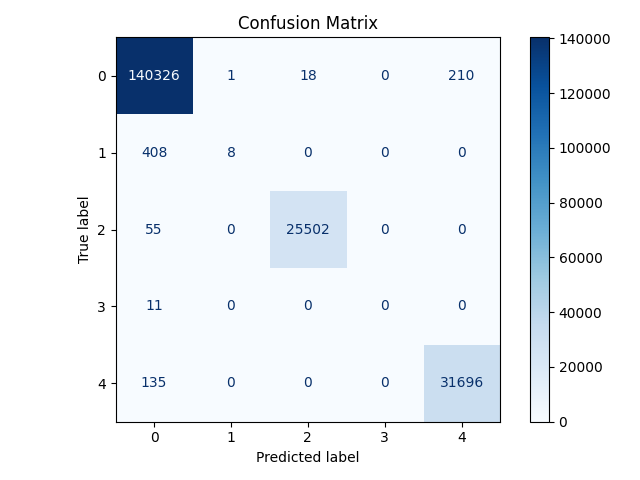
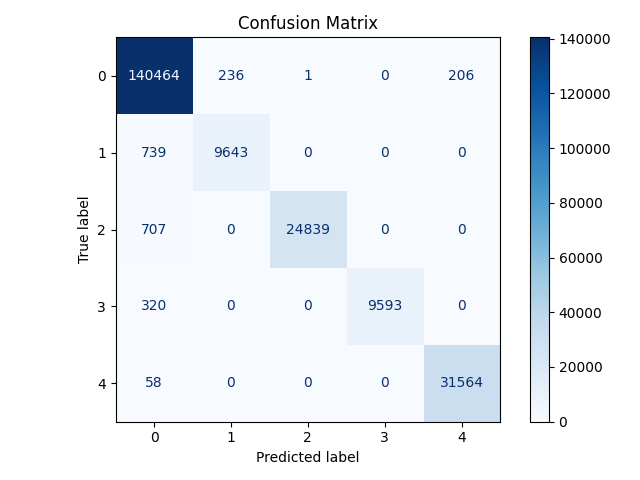
Added SMOTE

diff --git a/model.py b/model.py
@@ -66,7 +66,7 @@ def read_csv_to_ndarray(file_path: str) -> Tuple[np.ndarray, List[str], List[str
     return features, labels, feature_names
 
 
-def select_top_features(features: np.ndarray, labels: np.ndarray, feature_names: List[str], n_features: int = 5) -> Tuple[np.ndarray, List[str], List[int]]:
+def select_top_features(features: np.ndarray, labels: np.ndarray, feature_names: List[str], n_features: int = 10) -> Tuple[np.ndarray, List[str], List[int]]:
     """
     Selects top N features based on importance scores using actual labels.
     """
@@ -82,7 +82,7 @@ def select_top_features(features: np.ndarray, labels: np.ndarray, feature_names:
     selected_features = features[:, top_indices]
     selected_names = [feature_names[i] for i in top_indices]
     
-    print("\nTop 5 features selected:")
+    print("\nTop 10 features selected:")
     for idx, (name, importance) in enumerate(zip(selected_names, importances[top_indices]), 1):
         print(f"{idx}. {name} (importance: {importance:.4f})")
     
@@ -245,16 +245,6 @@ def perform_cross_validation(features: np.ndarray, labels: np.ndarray, class_wei
     print(f"Mean Balanced Accuracy: {scores.mean():.4f} (+/- {scores.std() * 2:.4f})")
     print(f"Individual Fold Scores: {', '.join(f'{score:.4f}' for score in scores)}")
 
-
-def balance_dataset(features: np.ndarray, labels: np.ndarray) -> Tuple[np.ndarray, np.ndarray]:
-    """
-    Applies SMOTE to balance the dataset.
-    """
-    smote = SMOTE(random_state=42, sampling_strategy='auto')
-    X_resampled, y_resampled = smote.fit_resample(features, labels)
-    
-    return X_resampled, y_resampled
-
 def perform_cross_validation(features: np.ndarray, labels: np.ndarray, n_splits: int = 5) -> None:
     """
     Performs stratified k-fold cross-validation and prints results.
@@ -304,6 +294,53 @@ def analyze_feature_correlations(features: np.ndarray, feature_names: List[str],
         for feature, corr in high_corr_features.items():
             print(f"- {feature}: {corr:.4f}")
 
+def add_rows_with_smote(features: np.ndarray, labels: np.ndarray, n_samples: int) -> Tuple[np.ndarray, np.ndarray]:
+    """
+    Adds a specific number of synthetic samples to a dataset using SMOTE.
+    
+    Args:
+        features (np.ndarray): The feature matrix
+        labels (np.ndarray): The label array
+        n_samples (int): The number of synthetic samples to generate
+        
+    Returns:
+        Tuple[np.ndarray, np.ndarray]: Augmented features and labels arrays
+    """
+    # Get current class distribution
+    unique_labels, class_counts = np.unique(labels, return_counts=True)
+    n_classes = len(unique_labels)
+    
+    # Calculate how many samples to add per class (distribute evenly)
+    samples_per_class = n_samples // n_classes
+    remainder = n_samples % n_classes
+    
+    # Create sampling strategy dictionary
+    sampling_strategy = {}
+    for i, label in enumerate(unique_labels):
+        # Add remainder samples to first classes if needed
+        extra = 1 if i < remainder else 0
+        target_count = class_counts[i] + samples_per_class + extra
+        sampling_strategy[label] = target_count
+    
+    # Apply SMOTE with the custom sampling strategy
+    smote = SMOTE(random_state=42, sampling_strategy=sampling_strategy)
+    X_resampled, y_resampled = smote.fit_resample(features, labels)
+    
+    print(f"Added {X_resampled.shape[0] - features.shape[0]} synthetic samples using SMOTE")
+    print(f"Original shape: {features.shape}, New shape: {X_resampled.shape}")
+    
+    # Analyze the distribution before and after
+    print("\nClass Distribution - Before:")
+    for label, count in zip(unique_labels, class_counts):
+        print(f"Class {label}: {count} samples")
+    
+    # Get new distribution
+    new_unique, new_counts = np.unique(y_resampled, return_counts=True)
+    print("\nClass Distribution - After:")
+    for label, count in zip(new_unique, new_counts):
+        print(f"Class {label}: {count} samples")
+    
+    return X_resampled, y_resampled
 
 def print_classification_metrics(y_true: np.ndarray, y_pred: np.ndarray, label_map: Dict[str, int]) -> None:
     """
@@ -364,9 +401,39 @@ def main():
     print("Encoding labels...")
     encoded_labels, label_map = encode_labels(all_labels)
 
+    # Add synthetic samples using SMOTE only for Bot and Infiltration classes
+    print("\nAdding synthetic samples for Bot and Infiltration classes...")
+    
+    # 1. Extract only Bot (1) and Infiltration (3) samples
+    target_classes = [1, 3]  # Bot and Infiltration
+    target_mask = np.isin(encoded_labels, target_classes)
+    target_features = features[target_mask]
+    target_labels = encoded_labels[target_mask]
+    
+    # 2. Generate synthetic samples for just these classes
+    synthetic_features, synthetic_labels = add_rows_with_smote(
+        target_features, target_labels, n_samples=100000
+    )
+    
+    # 3. Get only the newly generated samples
+    original_count = len(target_labels)
+    new_samples_features = synthetic_features[original_count:]
+    new_samples_labels = synthetic_labels[original_count:]
+    
+    # 4. Add them back to the original dataset
+    features = np.vstack([features, new_samples_features])
+    encoded_labels = np.concatenate([encoded_labels, new_samples_labels])
+    
+    # Display final distribution
+    unique_final, counts_final = np.unique(encoded_labels, return_counts=True)
+    class_names = {v: k for k, v in label_map.items()}
+    print("\nFinal distribution after adding synthetic samples:")
+    for label, count in zip(unique_final, counts_final):
+        print(f"{class_names.get(label, f'Class {label}')}: {count} samples")
+
     export_class_labels_json(label_map, "class_labels.json")
     
-    print("\nSelecting top 5 features...")
+    print("\nSelecting top 10 features...")
     selected_features, selected_names, selected_indices = select_top_features(
         features, encoded_labels, all_feature_names
     )
@@ -417,7 +484,6 @@ def main():
     
     # Save confusion matrix
     save_confusion_matrix(y_test, predictions, filepath="confusion_matrix.png")
-
 
 if __name__ == "__main__":
     main()
